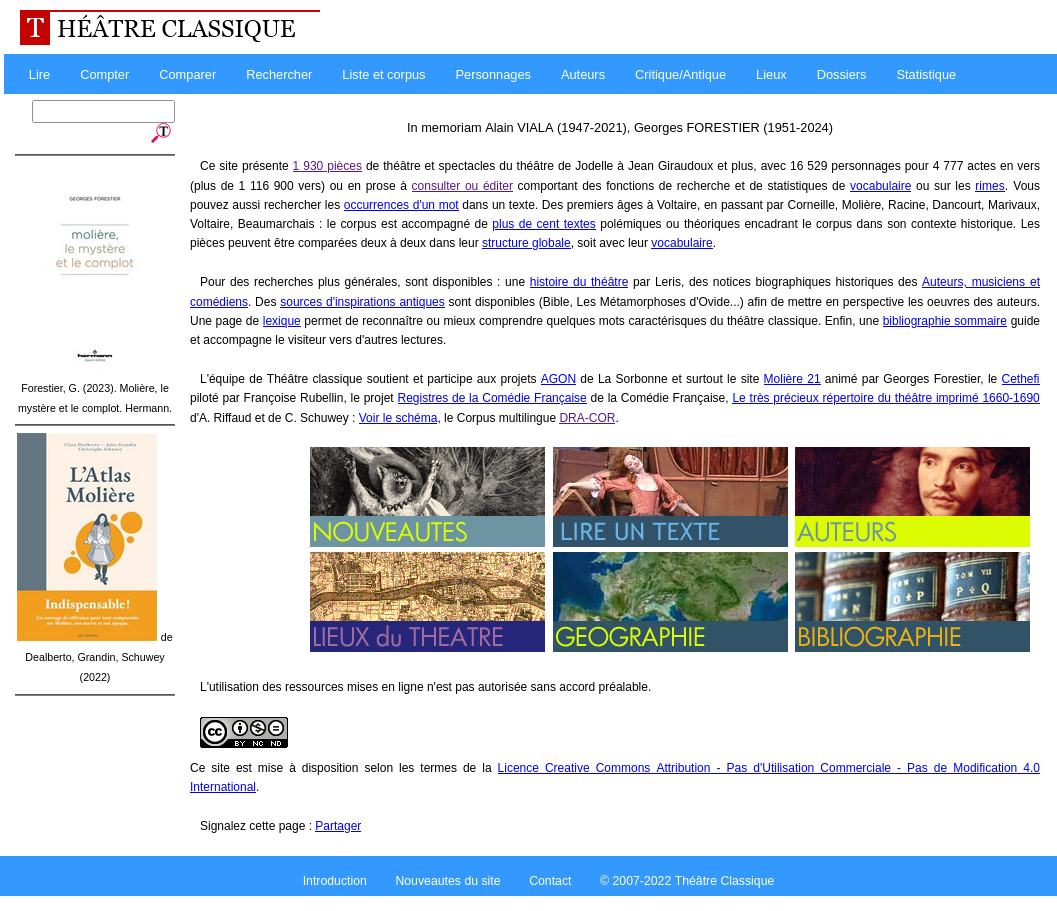
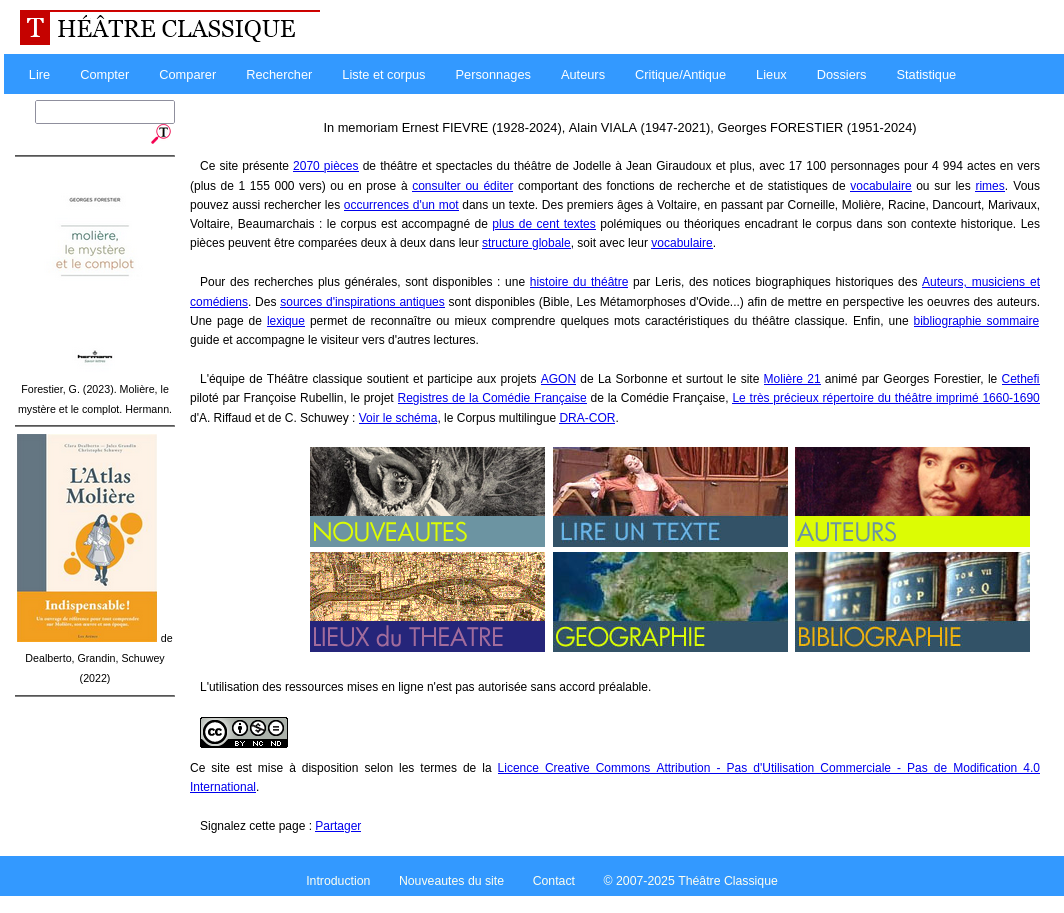
update slides

diff --git a/2025-09-02-fredracor/index.html b/2025-09-02-fredracor/index.html
@@ -196,7 +196,7 @@ FreDraCor as of 31 August 2025 (1,940 plays).
 
 <br />
 
-- 1,940 plays (upstream TC is already at 2,060 plays)
+- 1,940 plays (upstream TC is already at 2,070 plays)
 - work started in November 2019 (~ 6 years ago)
 - biggest achievement: since September 2024, all FreDraCor documents comply to TEI-All 😊
 - list of open issues: https://github.com/dracor-org/fredracor/issues
